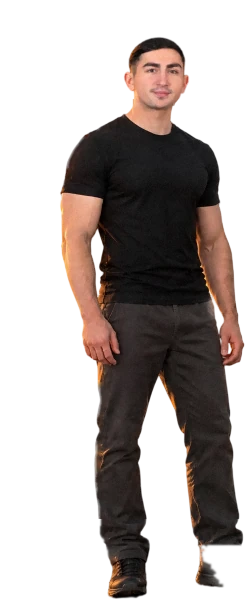
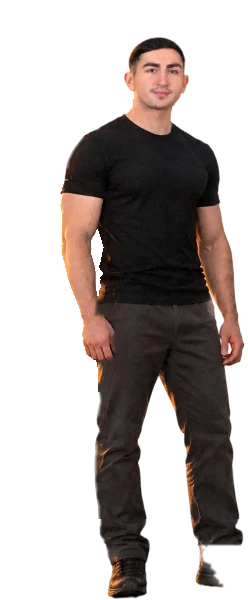
Website aktualisiert 28.09. 18:06

Changed region(s): [[0.3669, 0.36, 0.4516, 0.54], [0.3669, 0.54, 0.5081, 0.66], [0.2258, 0.36, 0.254, 0.39]]

diff --git a/index.html b/index.html
@@ -12,7 +12,7 @@
 <meta property="og:type" content="website">
 <meta property="og:title" content="ERGUN. – Websites, Automatisierung & KI">
 <meta property="og:description" content="Websites, Automatisierungen und eigene KI-Lösungen für Unternehmen – persönlich und aus einer Hand. Kostenloses Erstgespräch.">
-<meta property="og:image" content="https://website-ergun.vercel.app/bilder/og.jpg?v=5">
+<meta property="og:image" content="https://website-ergun.vercel.app/bilder/og.jpg?v=6">
 <meta property="og:url" content="https://website-ergun.vercel.app/">
 <link rel="canonical" href="https://website-ergun.vercel.app/">
 <meta property="og:image:width" content="1200">
@@ -28,9 +28,9 @@
 <link rel="preload" href="schriften/Satoshi-Variable.woff2" as="font" type="font/woff2" crossorigin>
 <link rel="preload" href="schriften/InstrumentSerif-Regular.woff2" as="font" type="font/woff2" crossorigin>
 <!-- Bildfolgen von Emre und dem Hund früh, aber mit niedriger Priorität holen: das Winken (erstes Runterwischen) wartet sonst auf sie -->
-<link rel="preload" href="bilder/hero/figuren/emre-folge.webp?v=15" as="image" fetchpriority="low" media="(prefers-reduced-motion: no-preference)">
-<link rel="preload" href="bilder/hero/figuren/emre-grund.webp?v=15" as="image" fetchpriority="low" media="(prefers-reduced-motion: no-preference)">
-<link rel="preload" href="bilder/hero/figuren/hund-folge.webp?v=15" as="image" fetchpriority="low" media="(prefers-reduced-motion: no-preference)">
+<link rel="preload" href="bilder/hero/figuren/emre-folge.webp?v=16" as="image" fetchpriority="low" media="(prefers-reduced-motion: no-preference)">
+<link rel="preload" href="bilder/hero/figuren/emre-grund.webp?v=16" as="image" fetchpriority="low" media="(prefers-reduced-motion: no-preference)">
+<link rel="preload" href="bilder/hero/figuren/hund-folge.webp?v=16" as="image" fetchpriority="low" media="(prefers-reduced-motion: no-preference)">
 <script>document.documentElement.classList.add('js');</script>
 
 <style>
@@ -213,16 +213,16 @@ img { display: block; max-width: 100%; height: auto; }
 .titel__studio { display: flex; align-items: center; gap: 14px; font-size: clamp(11px, 1vw, 14px); font-weight: 500; letter-spacing: 0.26em; text-transform: uppercase; text-shadow: 0 1px 2px rgba(10, 16, 32, 0.45), 0 0 18px rgba(10, 16, 32, 0.35); }
 .titel__studio::before, .titel__studio::after { content: ""; width: clamp(18px, 2.4vw, 32px); height: 1px; background: rgba(255, 249, 240, 0.6); }
 /* 28.09. abends (Emre, Ausnahme auf seinen Wunsch): groß „Websites · Automatisierung · KI“ statt „Webdesigner“ (bald Kunden in allen drei
-   Bereichen), klein „Digitalstudio für Unternehmen“ (Emre: Name und Ort nicht nennen). Breit: eine Zeile, Wörter nie getrennt; schmal (Handy): drei Zeilen untereinander ohne Punkte.
+   Bereichen), klein „Digitalstudio für Unternehmen“ (Emre: Name und Ort nicht nennen).
+   28.09. nachts (Emre): immer nebeneinander – auch auf dem Handy eine Zeile; statt Punkt eine kleine Wolke, die sanft zieht wie die
+   Wolken im Bild. Schriftgröße passt sich der Breite an (Zeile ≈ 14,9 em inkl. Wolken, Rand je Seite 5 % der Breite, 18–80 px).
    Alte Fassung zum Vergleich: ?titel=a. */
-.titel__haupt.titel__haupt--drei { font-size: clamp(2.4rem, 6.4vw, 7rem); line-height: 1; letter-spacing: -0.03em; }
-.titel__haupt--drei .titel__zeile { white-space: nowrap; }
-.titel__haupt--drei .titel__punkt { opacity: 0.55; }
-@media (max-width: 640px) {
-  .titel__haupt.titel__haupt--drei { font-size: clamp(2.3rem, 11.2vw, 3.6rem); line-height: 0.98; }
-  .titel__haupt--drei .titel__zeile { display: block; }
-  .titel__haupt--drei .titel__punkt { display: none; }
-}
+.titel__haupt.titel__haupt--drei { font-size: min(7rem, calc((100vw - 2 * clamp(18px, 5vw, 80px)) / 15.2)); line-height: 1; letter-spacing: -0.03em; white-space: nowrap; }
+.titel__haupt--drei .titel__punkt { display: inline-block; width: 0.5em; height: 0.28em; margin: 0 0.24em; vertical-align: 0.16em; }
+.titel__punkt svg { display: block; width: 100%; height: 100%; fill: currentColor; opacity: 0.78; filter: drop-shadow(0 1px 2px rgba(10, 16, 32, 0.35)); animation: wolke-zieht 7s ease-in-out infinite alternate; }
+.titel__punkt + .hinweis-versteckt + .titel__zeile + .titel__punkt svg { animation-delay: -3.5s; }
+@keyframes wolke-zieht { from { transform: translateX(-7%); } to { transform: translateX(7%); } }
+@media (prefers-reduced-motion: reduce) { .titel__punkt svg { animation: none; } }
 .titel__haupt { font-family: var(--serif); font-weight: 500; font-size: clamp(3.3rem, 10.5vw, 9.2rem); line-height: 0.92; letter-spacing: -0.035em; text-wrap: balance; text-shadow: 0 2px 6px rgba(10, 16, 32, 0.28), 0 0 42px rgba(10, 16, 32, 0.3); }
 @media (max-width: 700px) { .titel__studio { font-size: 11px; letter-spacing: 0.12em; } .titel__studio::before, .titel__studio::after { display: none; } }
 
@@ -564,7 +564,7 @@ p, .wege span { text-wrap: pretty; hyphens: auto; -webkit-hyphens: auto; }
     <div class="szene__ebene szene__titel" data-ebene="titel">
       <div class="titel">
         <p class="titel__studio" data-titel-klein>Digitalstudio für Unternehmen</p>
-        <h1 class="titel__haupt titel__haupt--drei" data-titel-gross><span class="hinweis-versteckt">ERGUN. </span><span class="titel__zeile">Websites</span><span class="titel__punkt" aria-hidden="true"> · </span><span class="titel__zeile">Automatisierung</span><span class="titel__punkt" aria-hidden="true"> · </span><span class="titel__zeile">KI</span></h1>
+        <h1 class="titel__haupt titel__haupt--drei" data-titel-gross><span class="hinweis-versteckt">ERGUN. </span><span class="titel__zeile">Websites</span><span class="titel__punkt" aria-hidden="true"><svg viewBox="0 0 40 22" focusable="false"><path d="M8 21H32A7 7 0 0 0 33 7.1A9 9 0 0 0 16 5A7 7 0 0 0 7.5 11A5 5 0 0 0 8 21Z"/></svg></span><span class="hinweis-versteckt">, </span><span class="titel__zeile">Automatisierung</span><span class="titel__punkt" aria-hidden="true"><svg viewBox="0 0 40 22" focusable="false"><path d="M8 21H32A7 7 0 0 0 33 7.1A9 9 0 0 0 16 5A7 7 0 0 0 7.5 11A5 5 0 0 0 8 21Z"/></svg></span><span class="hinweis-versteckt">, </span><span class="titel__zeile">KI</span></h1>
       </div>
       <script>/* ?titel=a: alte Fassung zum Vergleich (klein „Websites, Automatisierung & KI“, groß „Webdesigner“) */ if (/[?&]titel=a(?![a-z])/.test(location.search)) { var tk = document.querySelector('[data-titel-klein]'), tg = document.querySelector('[data-titel-gross]'); tk.textContent = 'Websites, Automatisierung & KI'; tg.classList.remove('titel__haupt--drei'); tg.innerHTML = '<span class="hinweis-versteckt">ERGUN. </span>Webdesigner'; }</script>
     </div>
@@ -687,7 +687,7 @@ p, .wege span { text-wrap: pretty; hyphens: auto; -webkit-hyphens: auto; }
 </footer>
 <div class="wechsel" aria-hidden="true"></div>
 
-<script src="js/szene.js?v=51"></script>
+<script src="js/szene.js?v=52"></script>
 <script src="js/wolken.js?v=6" defer></script>
 <script>
 /* Navigation beim Runterscrollen ausblenden, Inhalte einmal sanft einblenden */

diff --git a/js/szene.js b/js/szene.js
@@ -524,10 +524,10 @@
      („Tschüss“). Beides startet gemeinsam, sobald es Nacht ist und man weiterscrollt, und läuft dann in eigener Zeit ab
      (so sieht man es sicher, bevor endo Studio kommt); beim Hochscrollen läuft es rückwärts. */
   /* 28.09. später (Emre: „flüssig und sauber“): winken_fluss.py – winken2-v1 0,75–4,45 s, BiRefNet, feste Figur + Armzone, echte Zwischenbilder (48/s), ohne Überblendung; Werte aus figuren/emre.json */
-  var FIGUREN = { hund: { b: 318, h: 360, anzahl: 36, spalten: 6, fuss: 0.9921, oben: 0.0896, mitte: 0.4201, breite: 0.7716 }, emre: { b: 248, h: 600, anzahl: 177, spalten: 12, fuss: 0.9965, oben: 0.0622, mitte: 0.6131, breite: 0.7397, einzeln: true, ausschnitt: [0, 0, 248, 494] } };   /* 28.09. später: winken_fluss.py – Grundbild + Armzone, 48 Bilder/s (Werte aus figuren/emre.json) */
+  var FIGUREN = { hund: { b: 318, h: 360, anzahl: 36, spalten: 6, fuss: 0.9921, oben: 0.0896, mitte: 0.4201, breite: 0.7716 }, emre: { b: 248, h: 600, anzahl: 177, spalten: 12, fuss: 0.9965, oben: 0.0622, mitte: 0.6131, breite: 0.7397, einzeln: true, ausschnitt: [0, 0, 172, 490] } };   /* 28.09. nachts: winken_fest.py – Oberkörper steht, nur der Arm winkt; Grundbild + Armzone, 48 Bilder/s (Werte aus figuren/emre.json) */
   /* Tempo (27.09. spät, Emre): Emre und Hund laufen NUR nach Zeit, jeder in seinem festen Tempo, unabhängig vom Scrollen.
      Emre winkt einmal (FIG_DAUER), der Hund hebt den Kopf in HUND_HOCH und senkt ihn in HUND_RUNTER. */
-  var FIG_DAUER = 3.7, HUND_HOCH = 2.5, HUND_RUNTER = 2.0, lichtGold = 0, lichtBlau = 0, lichtNacht = 0, FIG_VERSION = 15;   /* 28.09. später (Emre: „flüssig und sauber“): winken_fluss.py – 0,75–4,45 s aus winken2-v1, 48 Bilder/s mit echten Zwischenbildern, echte Geschwindigkeit (3,7 s) */
+  var FIG_DAUER = 3.7, HUND_HOCH = 2.5, HUND_RUNTER = 2.0, lichtGold = 0, lichtBlau = 0, lichtNacht = 0, FIG_VERSION = 16;   /* 28.09. später (Emre: „flüssig und sauber“): winken_fluss.py – 0,75–4,45 s aus winken2-v1, 48 Bilder/s mit echten Zwischenbildern, echte Geschwindigkeit (3,7 s) */
   /* Lage von Sonne und Mond (für Wolken, js/wolken.js) und wie stark das Gestirn gerade verdeckt ist (0–1, in Zehnteln) */
   var gest = { sy: 0, my: 0, sonneAn: 1, mondAn: 0 }, verdecktQ = 0, gestTest = null;
   var fig = { phase: 0, ziel: 0, laeuft: false }, hund = { phase: 0, ziel: 0, laeuft: false }, animT = 0, animLaeuft = false;

diff --git a/LIESMICH.md b/LIESMICH.md
@@ -2,6 +2,10 @@
 
 > Überblick für eine neue Sitzung: Vault-Notiz `08 Projekte/Neustart – hier weitermachen.md`. Hier stehen die technischen Details, neuester Abschnitt oben.
 
+## 28.09.2026 nachts – Titel mit Wolken in einer Zeile + Winken v16 (Oberkörper fest)
+- **Titel:** Emre: „nebeneinander, mit einem eleganten Punkt, der zur Welt passt – ein Wolken-Punkt“. `.titel__punkt` enthält jetzt ein kleines Wolken-SVG (`fill: currentColor`, 78 % Deckkraft, leichter Schatten), das mit `wolke-zieht` (7 s, ±7 %, nur `transform`) sanft hin und her zieht; zweite Wolke versetzt; bei „Bewegung reduzieren“ still. Für Vorleseprogramme steht zwischen den Wörtern ein verstecktes Komma. **Immer eine Zeile**: `font-size: min(7rem, calc((100vw - 2 * clamp(18px, 5vw, 80px)) / 15.2))` – gemessen 375/390/768/1280/1440 px: je 1 Zeile, links = rechts Abstand (22/23/45/76/85 px), keine waagerechte Scrollleiste. Auf dem Handy ist die Zeile damit ~22 px hoch. Vorschaubild `og.jpg?v=6`. Bilder: `08 Projekte/KI-Angebot-2026-09-28/titel-wolke-*.png`.
+- **Winken v16 (`winken_fest.py`):** Emre zu v15: „Körper wackelt mit, dazu ein Sonnenstrahl, wenn die Hand oben ist / beim Runternehmen links mittig am Bauch“. Jetzt: Rumpf jedes Videobilds per ECC (affin) auf Bild 0 ausgerichtet und dort, wo es passt, direkt Bild 0 genommen; hinter dem Ruhe-Arm eine feste, einmal bereinigte Platte (kein Streiflicht, kein Flackern); nur der Arm kommt aus dem Video. Gemessen (`winken_pruefen.py`): Rumpf 0,53 px (v15: 2,7), Kopf 0,5 px, 0 Einbrüche, 0 am Zellrand. Sprite nur noch Armzone 172 × 490 → `emre-folge.webp` 753 KB (v15: 1,45 MB). `FIG_VERSION` 16, `szene.js?v=52`. Sicherung v15: `emre-*-vor-fest.*`. Aufnahmen: `08 Projekte/Winken-Vergleich-2026-09-28/nachher-v16-*`.
+
 ## 28.09.2026 nachts – ohne Name und Ort
 - Emre: „Nicht erwähnen, dass ich aus Elmshorn komme, und meinen Namen auch nicht.“ Entfernt aus `<title>`, Meta-/OG-Beschreibung, Titelzeile (jetzt „Digitalstudio für Unternehmen“), Kontakt-Porträt (`alt` „Porträt Ihres Ansprechpartners“, Beschriftung „Ihr Ansprechpartner · online“), Einwilligung („dass ich zu meiner Anfrage kontaktiert werde“), Agentur-Text („ERGUN. ist ein Digitalstudio für Unternehmen: …“), Fußzeile. `og.jpg?v=5` neu gerendert.
 - **Bleibt (Pflicht):** Name und Anschrift in `impressum.html` (§ 5 DDG) und Verantwortlicher in `datenschutz.html` (Art. 13 DSGVO).
